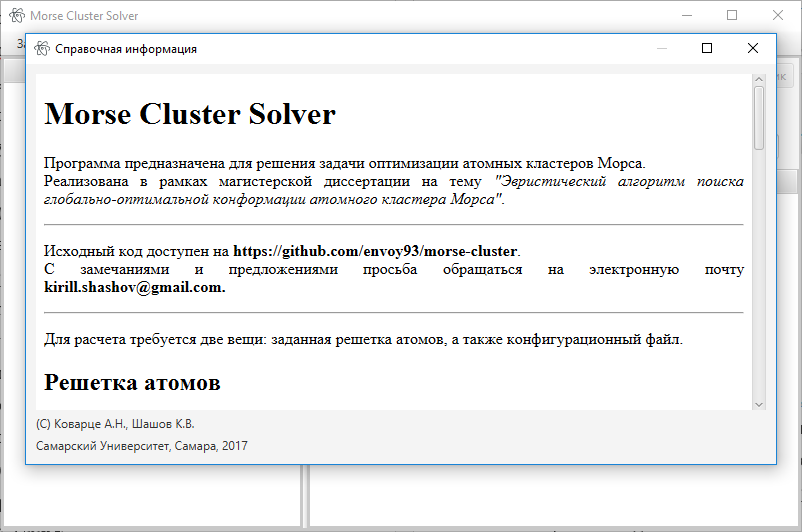
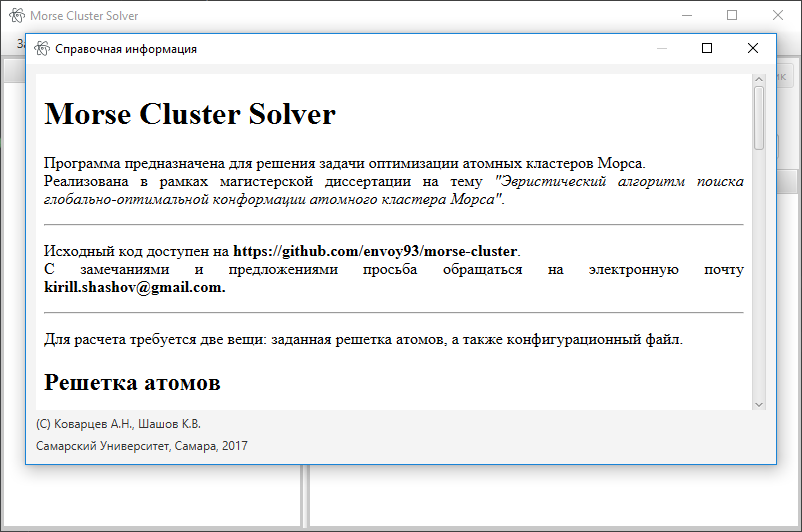
0.92 build

diff --git a/src/main/java/com/cluster/MainController.java b/src/main/java/com/cluster/MainController.java
@@ -97,7 +97,7 @@ public class MainController implements Initializable, EventHandler<WindowEvent> 
                 dialog.initOwner(MainApp.primaryStage);
                 WebView webView = new WebView();
                 webView.getEngine().load(getClass().getResource("/about.html").toExternalForm());
-                VBox mainVbox = new VBox(webView, new Label("(С) Коварце А.Н., Шашов К.В."), new Label("Самарский Университет, Самара, 2017"));
+                VBox mainVbox = new VBox(webView, new Label("(С) Коварцев А.Н., Шашов К.В."), new Label("Самарский Университет, Самара, 2017"));
                 mainVbox.setAlignment(Pos.CENTER_LEFT);
                 mainVbox.setSpacing(5);
                 mainVbox.setPadding(new Insets(10));
